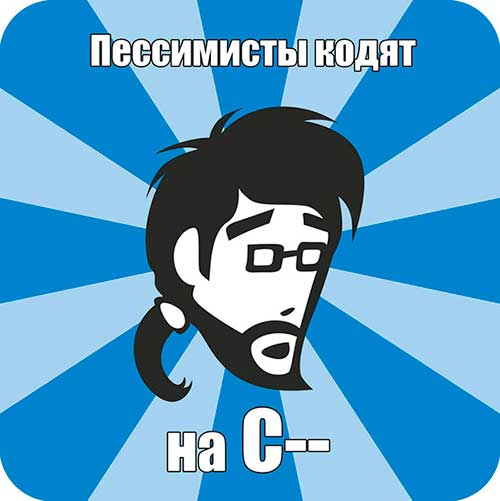
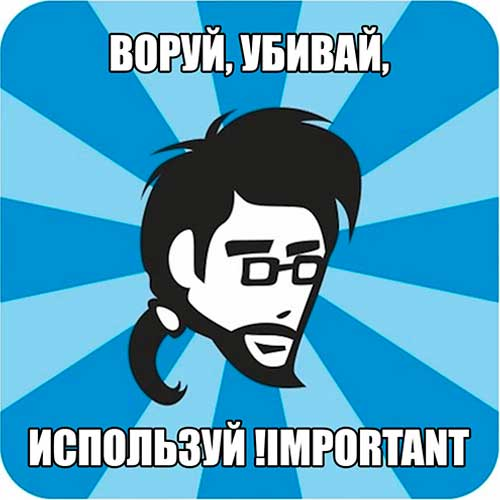
feat: mobile - Сб, 11 мар 2023 г. 22:57:35

diff --git a/cssBayan/style.css b/cssBayan/style.css
@@ -1,7 +1,7 @@
 body {
     color: #064069;
-   /*  background: #04395e1a; */
-   background: #e4e4e4;
+    /*  background: #04395e1a; */
+    background: #e4e4e4;
     font-family: 'Open Sans', sans-serif;
 }
 h1{
@@ -12,46 +12,25 @@ input {
 }
 .accordion-wrapper {
     overflow: hidden;
-    width: 60%;
+    width: 100%;
     margin:0 auto;
 }
 .accordion-item {
     width: 100%;
-    color: white;
+    color: #ffffff;
     overflow: hidden;
 }
-.accordion:last-child{
-    margin-bottom: 0;
-}
+
 .label-mem {
     display: flex;
     justify-content: space-between;
     align-items: center;
-    padding: 0.7em;
+    padding: 0.5em;
     background: #055086; 
     font-weight: bold;
     cursor: pointer;
     border-bottom: 0.1em solid #e4e4e4;
-}
-/* .label-mem:hover {
-    background: #04395e;
-} */
-
-.label-mem:hover ~ .label-content .accordion-content {
-    max-height: 100%;
-    padding: 1em;
-}
-
-.label-mem:hover ~ .label-content .img-mem{
-    width: 50%;
-    height: 50%;
-    opacity: 1;
-    transition: all 0.5s;
-}
-
-.label-mem:hover .btn-mem {
-    transition: all 0.5s;
-    transform: rotate(45deg);
+    font-size: 1em;
 }
 
 .accordion-content {
@@ -62,16 +41,9 @@ input {
     text-align: center;
 }
 
-.accordion-content:hover{
-    cursor: pointer;
-    max-height: 100%;
-    padding: 1em;
-}
-
-.accordion-content:hover .img-mem {
-    width: 50%;
-    height: 50%;
-    opacity: 1;
+.accordion-title{
+    display: flex;
+    justify-content: space-between;
 }
 
 input:checked ~ .label-content .accordion-content {
@@ -84,32 +56,22 @@ input:checked ~ .label-mem {
 }
 
 input:checked ~ .label-content .accordion-content .img-mem{
-    width: 50%;
-    height: 50%;
+    width: 90%;
+    height: 90%;
     opacity: 1;
 }
 
 .btn-mem{
-    background-image: url(/cssBayan/assets/svg/plus.svg);
+    background-image: url(../cssBayan/assets/svg/plus.svg);
     width: 2em;
     height: 2em;
     transition: all 0.5s;
     transform: rotate(90deg);
-    opacity: 0;
+    opacity: 1;
 }
 
 input:checked ~ label .btn-mem {
     transform: rotate(45deg);
-}
-
-.accordion-title{
-    display: flex;
-    justify-content: space-between;
-}
-
-.accordion-wrapper:hover .btn-mem {
-    transition: all 0.5s;
-    opacity: 1;
 }
 
 .img-mem{
@@ -119,20 +81,85 @@ input:checked ~ label .btn-mem {
     transition: all 0.5s;
 }
 
-.accordion-item:hover .label-mem{
-    font-style: italic;
+
+@media (min-width: 481px){
+    input:checked ~ .label-content .accordion-content .img-mem{
+        width: 60%;
+        height: 60%;
+    }
+    .label-mem{
+        font-size: 1.1em;
+    }
 }
 
-.accordion-item:hover .btn-mem{
-    transform: rotate(45deg);
-}
-
-.accordion-item:active {
-    opacity: 0.7;
-}
-
-@media (max-width: 820px) {
+@media (min-width: 821px) {
     .accordion-wrapper{
-        width: 100%;
+        width: 60%;
+    }
+
+    .btn-mem{
+        opacity: 0;
+    }
+
+    .accordion-item:active {
+        opacity: 0.7;
+    }
+
+    input:checked ~ .label-content .accordion-content .img-mem{
+        width: 50%;
+        height: 50%;
+    }
+
+    .label-mem{
+        font-size: 1.2em;
+    }
+
+    .label-mem:hover ~ .label-content .accordion-content {
+        max-height: 100%;
+        padding: 1em;
+    }
+    
+    .label-mem:hover ~ .label-content .img-mem{
+        width: 50%;
+        height: 50%;
+        opacity: 1;
+        transition: all 0.5s;
+    }
+    
+    .label-mem:hover .btn-mem {
+        transition: all 0.5s;
+        transform: rotate(45deg);
+    }
+
+    .accordion-content:hover{
+        cursor: pointer;
+        max-height: 100%;
+        padding: 1em;
+    }
+    
+    .accordion-content:hover .img-mem {
+        width: 50%;
+        height: 50%;
+        opacity: 1;
+    }
+
+    .accordion-wrapper:hover .btn-mem {
+        transition: all 0.5s;
+        opacity: 1;
+    }
+
+    .accordion-item:hover .label-mem{
+        font-style: italic;
+    }
+    
+    .accordion-item:hover .btn-mem{
+        transform: rotate(45deg);
+    }
+}
+
+@media (min-width: 1441px){
+    input:checked ~ .label-content .accordion-content .img-mem{
+        width: 40%;
+        height: 40%;
     }
 }

diff --git a/cssBayan/index.html b/cssBayan/index.html
@@ -13,13 +13,13 @@
 <div class="accordion-wrapper">
   <div class="accordion-item">
     <input type="radio" name="radio" id="mem1" checked>
-    <label class="label-mem" for="mem1" style="background: #2482cb;">    
-        <span>Пессимисты кодят на С--</span>
+    <label class="label-mem" for="mem1" style="background: #0e90cf;">    
+        <span>Воруй, убивай, используй !IMPORTANT</span>
         <div class="btn-mem"></div>
     </label>
     <label class="label-content" for="mem1">
         <div class="accordion-content">
-            <img class="img-mem" src="/cssBayan/assets/img/mem_1.jpg" alt="mem_1"></img>
+            <img class="img-mem" src="../cssBayan/assets/img/mem_1.jpg" alt="mem_1"></img>
         </div>
     </label>
   </div>
@@ -31,31 +31,43 @@
     </label>
     <label class="label-content" for="mem2">
         <div class="accordion-content">
-            <img class="img-mem" src="/cssBayan/assets/img/mem_2.jpg" alt="mem_2"></img>
+            <img class="img-mem" src="../cssBayan/assets/img/mem_2.jpg" alt="mem_2"></img>
         </div>
     </label>    
   </div>
   <div class="accordion-item">
     <input type="radio" name="radio" id="mem3">
-    <label class="label-mem" for="mem3" style="background: #77b131;">    
-        <span>Пришел в гости - почини компьютер</span>
+    <label class="label-mem" for="mem3" style="background: #c78f1c;">    
+        <span>Мужики не плачут...</span>
         <div class="btn-mem"></div>
     </label>
     <label class="label-content" for="mem3">
         <div class="accordion-content">
-            <img class="img-mem" src="/cssBayan/assets/img/mem_3.jpg" alt="mem_3"></img>
+            <img class="img-mem" src="../cssBayan/assets/img/mem_3.jpg" alt="mem_3"></img>
         </div>
     </label> 
   </div>
   <div class="accordion-item">
     <input type="radio" name="radio" id="mem4">
-    <label class="label-mem" for="mem4" style="background: #c78f1c;">    
-        <span>Мужики не плачут...</span>
+    <label class="label-mem" for="mem4" style="background: #77b131;">    
+        <span>Пришел в гости - почини компьютер</span>
         <div class="btn-mem"></div>
     </label>
     <label class="label-content" for="mem4">
         <div class="accordion-content">
-            <img class="img-mem" src="/cssBayan/assets/img/mem_4.jpg" alt="mem_4"></img>
+            <img class="img-mem" src="../cssBayan/assets/img/mem_4.jpg" alt="mem_4"></img>
+        </div>
+    </label> 
+  </div>
+  <div class="accordion-item">
+    <input type="radio" name="radio" id="mem5">
+    <label class="label-mem" for="mem5" style="background: #822bb7;">    
+        <span>Починил комп. Стало только хуже</span>
+        <div class="btn-mem"></div>
+    </label>
+    <label class="label-content" for="mem5">
+        <div class="accordion-content">
+            <img class="img-mem" src="../cssBayan/assets/img/mem_5.jpg" alt="mem_5"></img>
         </div>
     </label> 
   </div>
